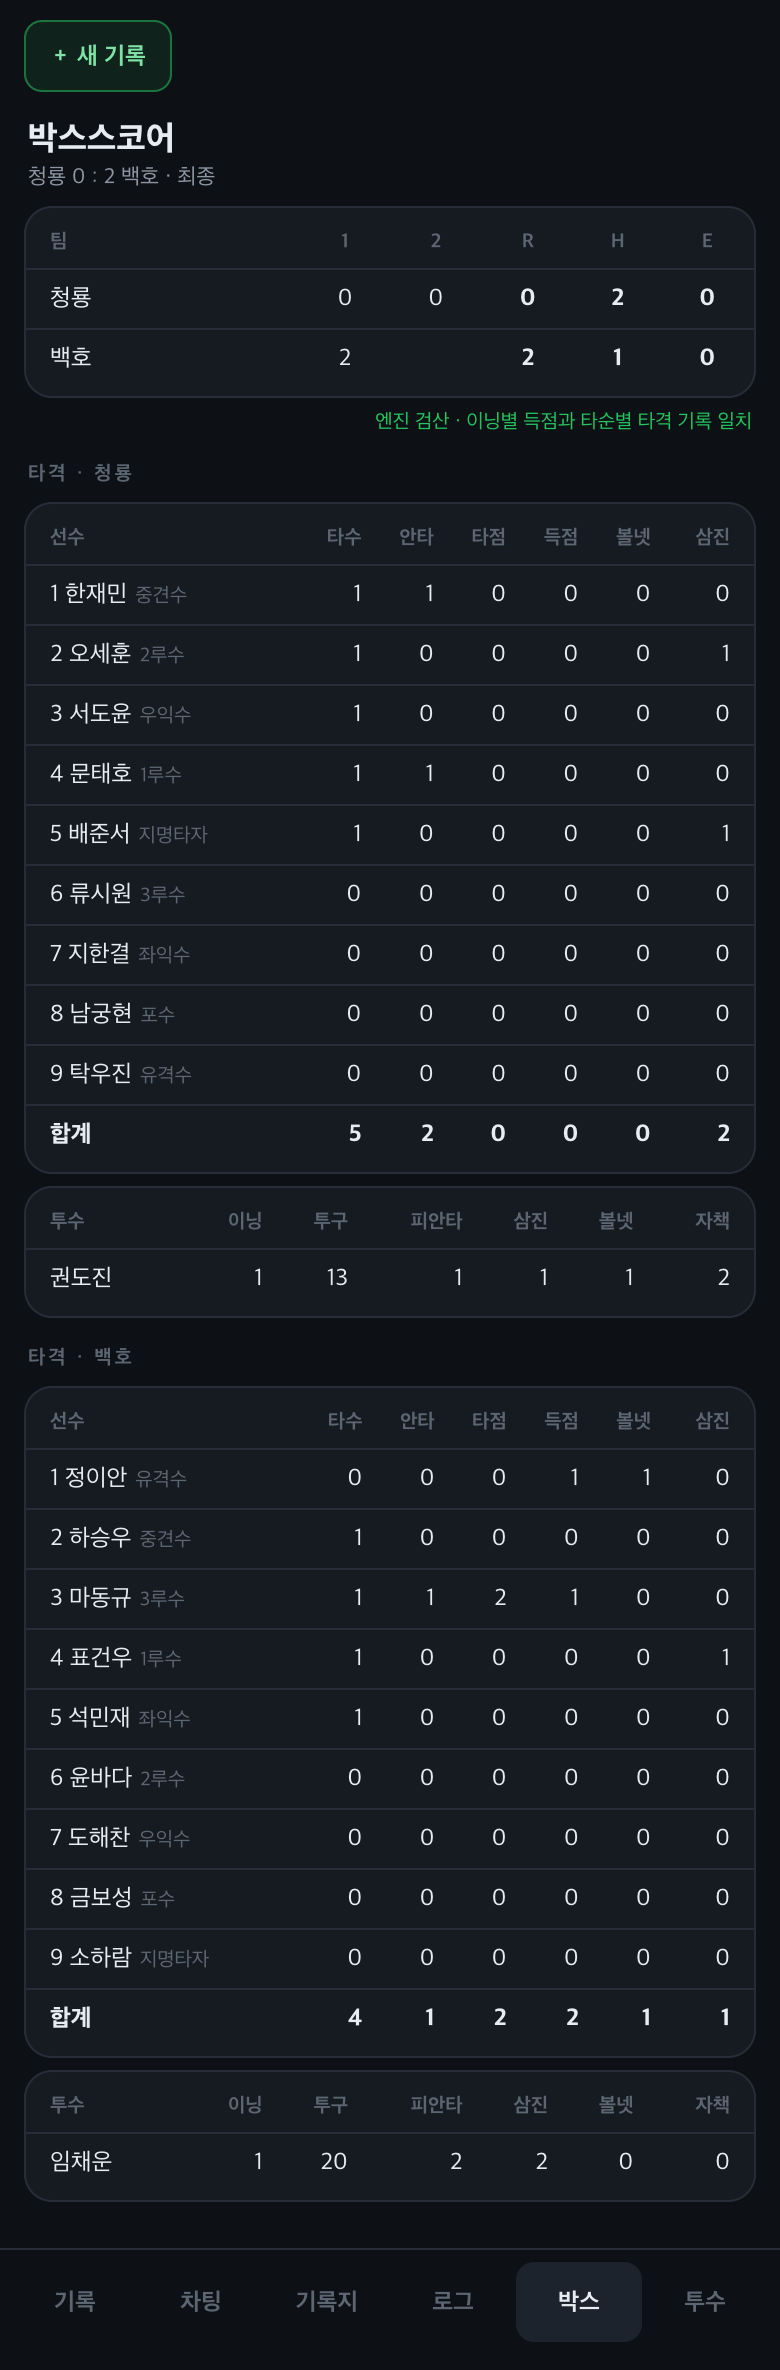
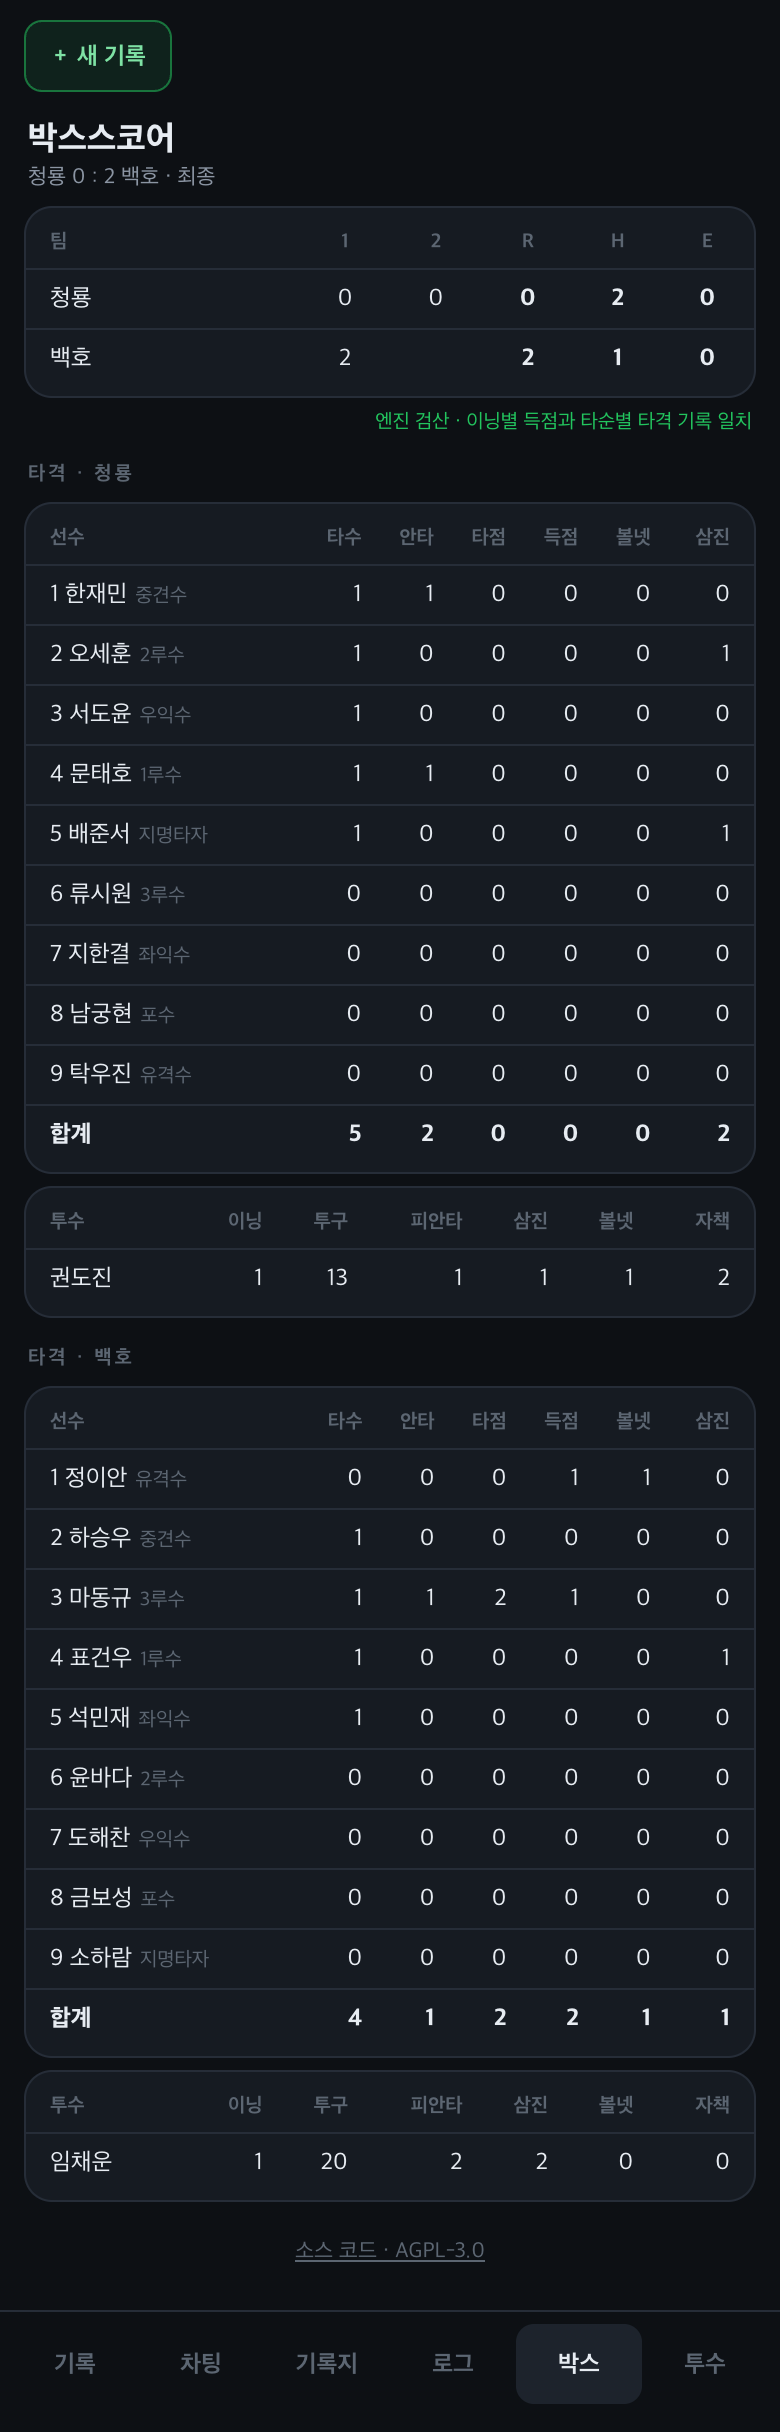
docs: desktop screenshots in the README
The README only showed the phone layout; the wide layout (three-pane chart,
pitcher view, score sheet) is added above it. All shots are retaken from the
same made-up manual game on the production build, so they hold no Naver data
and the phone ones now show the source link.

Verified: viewed each desktop shot; all image files are in docs/screenshots.

Claude-Session: https://claude.ai/code/session_011tZbWDL8ovxz8DjMaMa5KY

diff --git a/README.md b/README.md
@@ -4,6 +4,16 @@
 네이버 문자중계가 있는 경기는 투구 데이터를 받아 채우고, 사람은 낙구지점만 탭하면 된다.
 오프라인에서 동작하는 PWA이고, 스코어링 엔진은 Rust로 짜서 WASM으로 돌린다.
 
+### PC
+
+<img src="docs/screenshots/pc_chart.png" alt="PC 차팅: 왼쪽 타석 목록, 가운데 투구, 오른쪽 낙구지점">
+
+| 투수 분석 · 투구 기록지 | 기록지 |
+| :-: | :-: |
+| <img src="docs/screenshots/pc_pitcher.png" width="420"> | <img src="docs/screenshots/pc_sheet.png" width="420"> |
+
+### 폰
+
 | 기록 입력 | 투수 분석 · 투구 기록지 | 차팅 · 낙구지점 |
 | :-: | :-: | :-: |
 | <img src="docs/screenshots/score.png" width="260"> | <img src="docs/screenshots/pitcher.png" width="260"> | <img src="docs/screenshots/chart.png" width="260"> |
